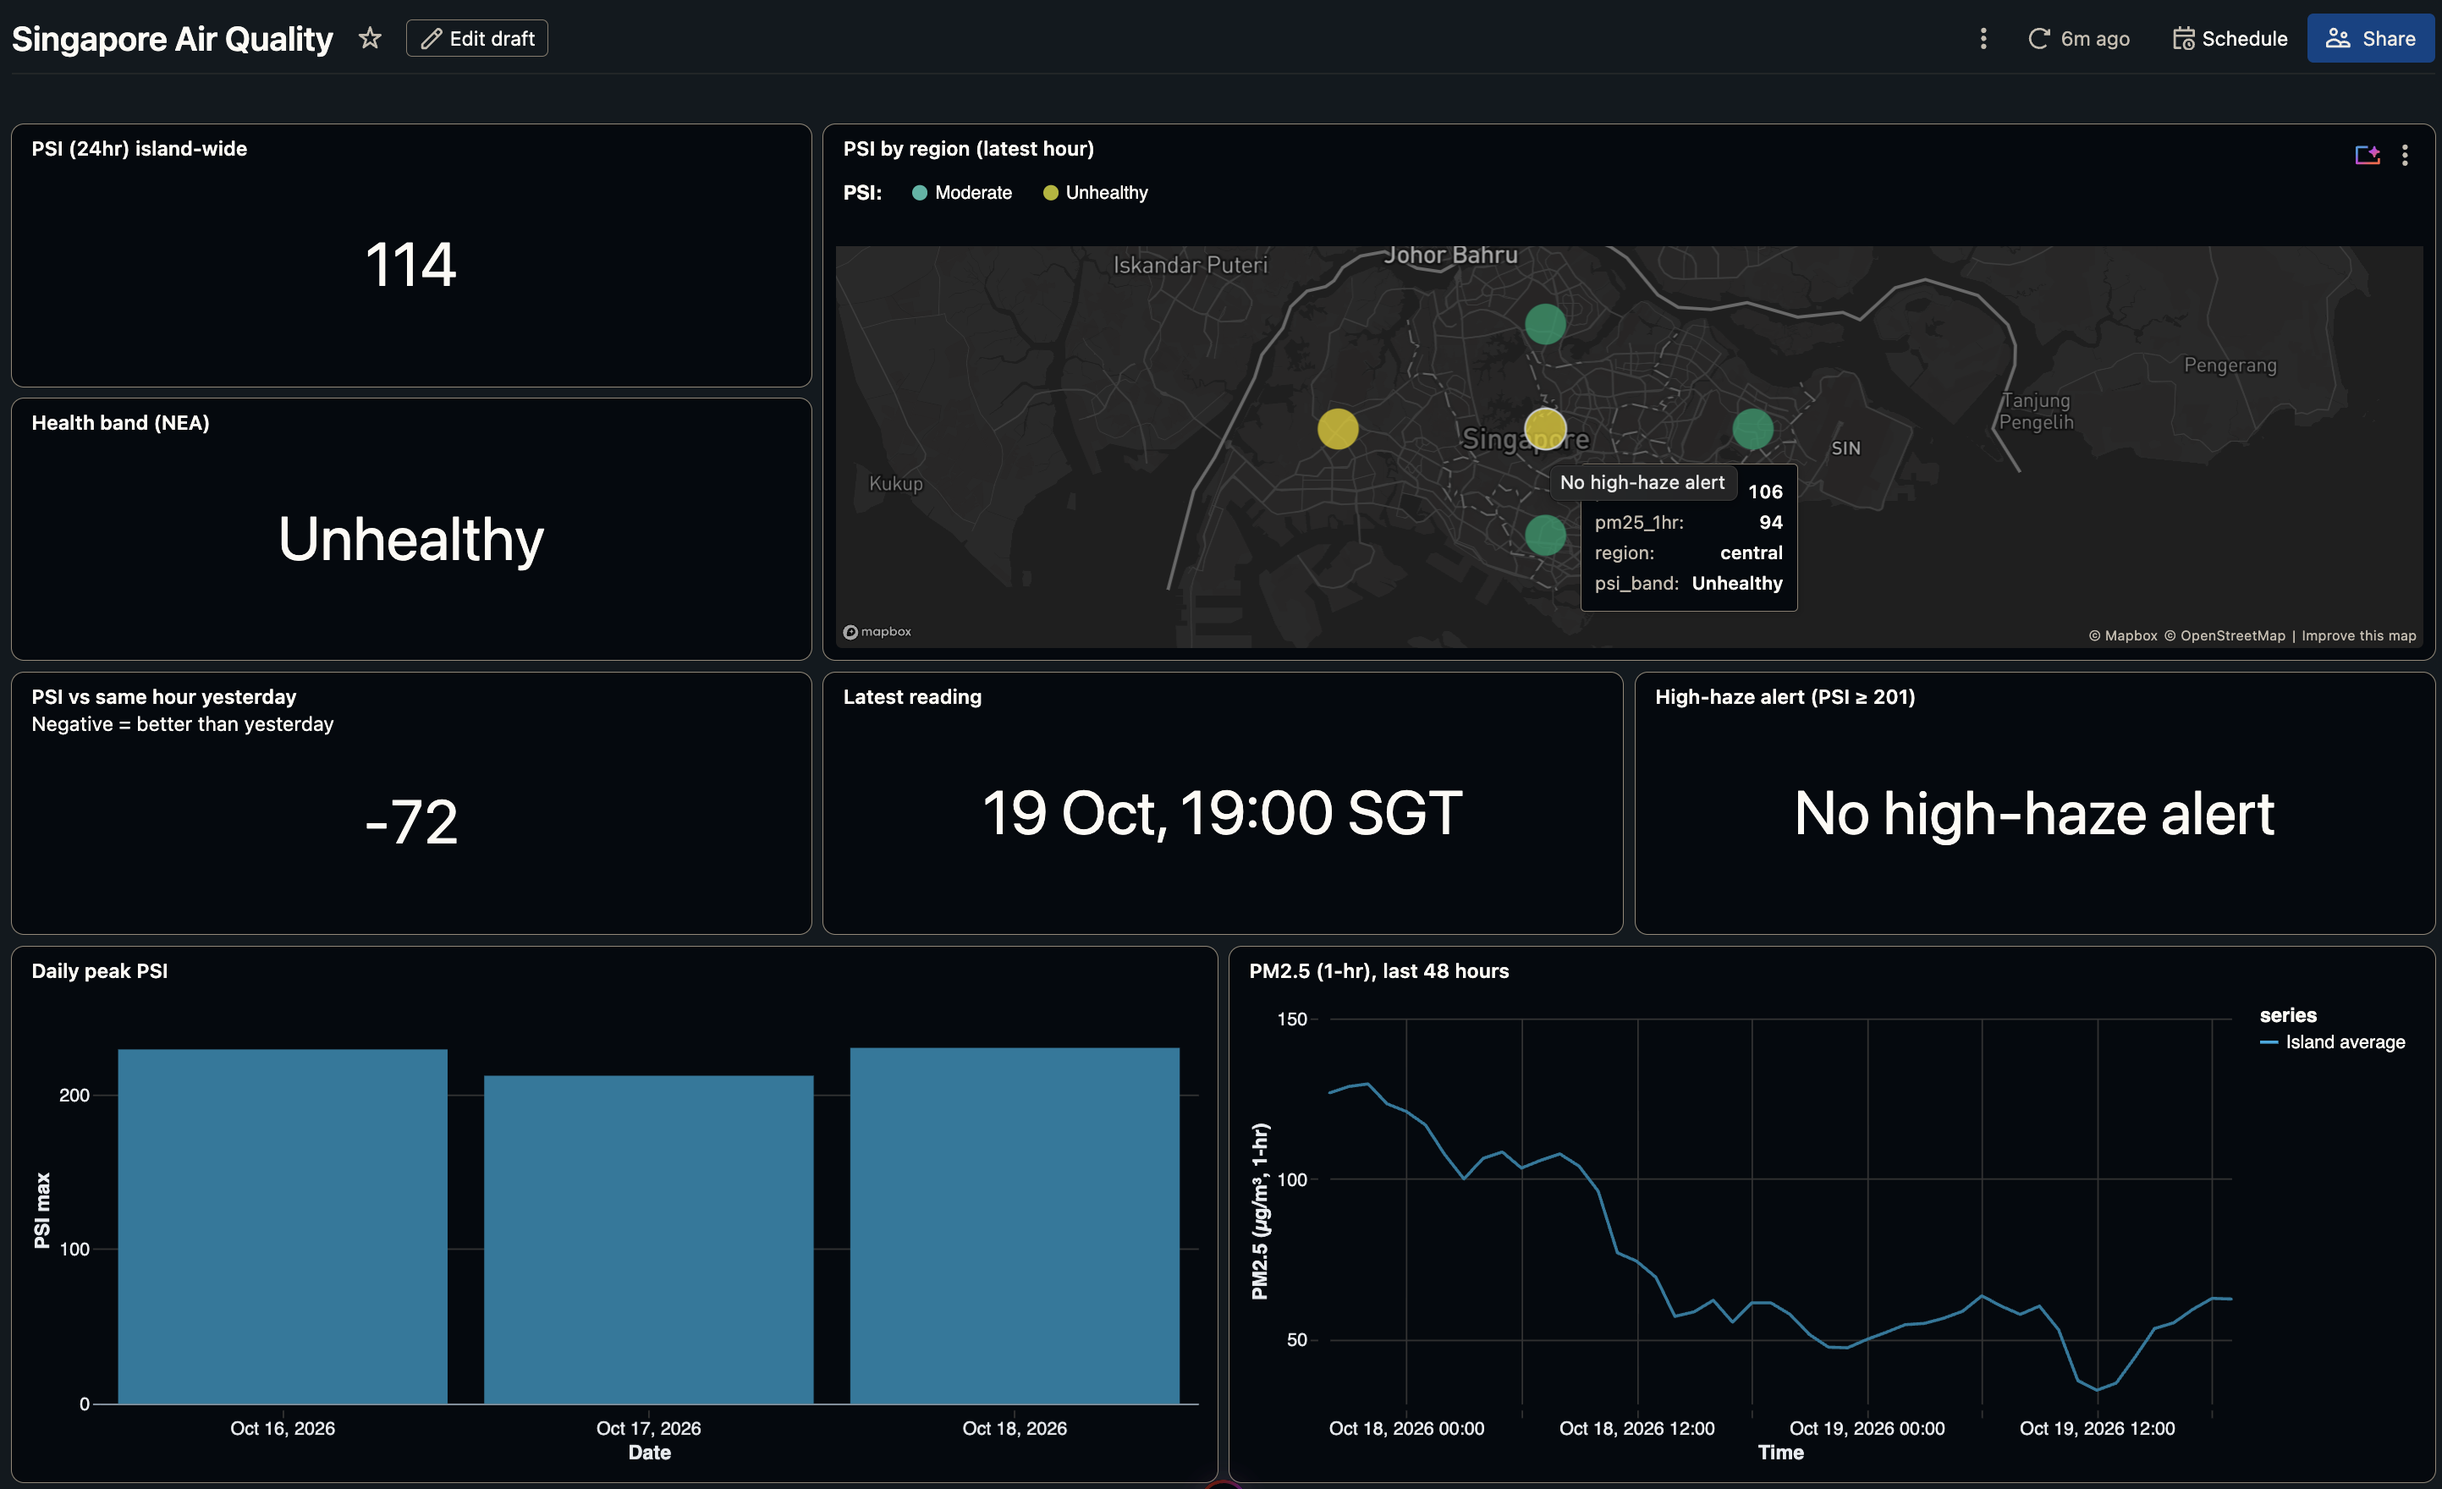
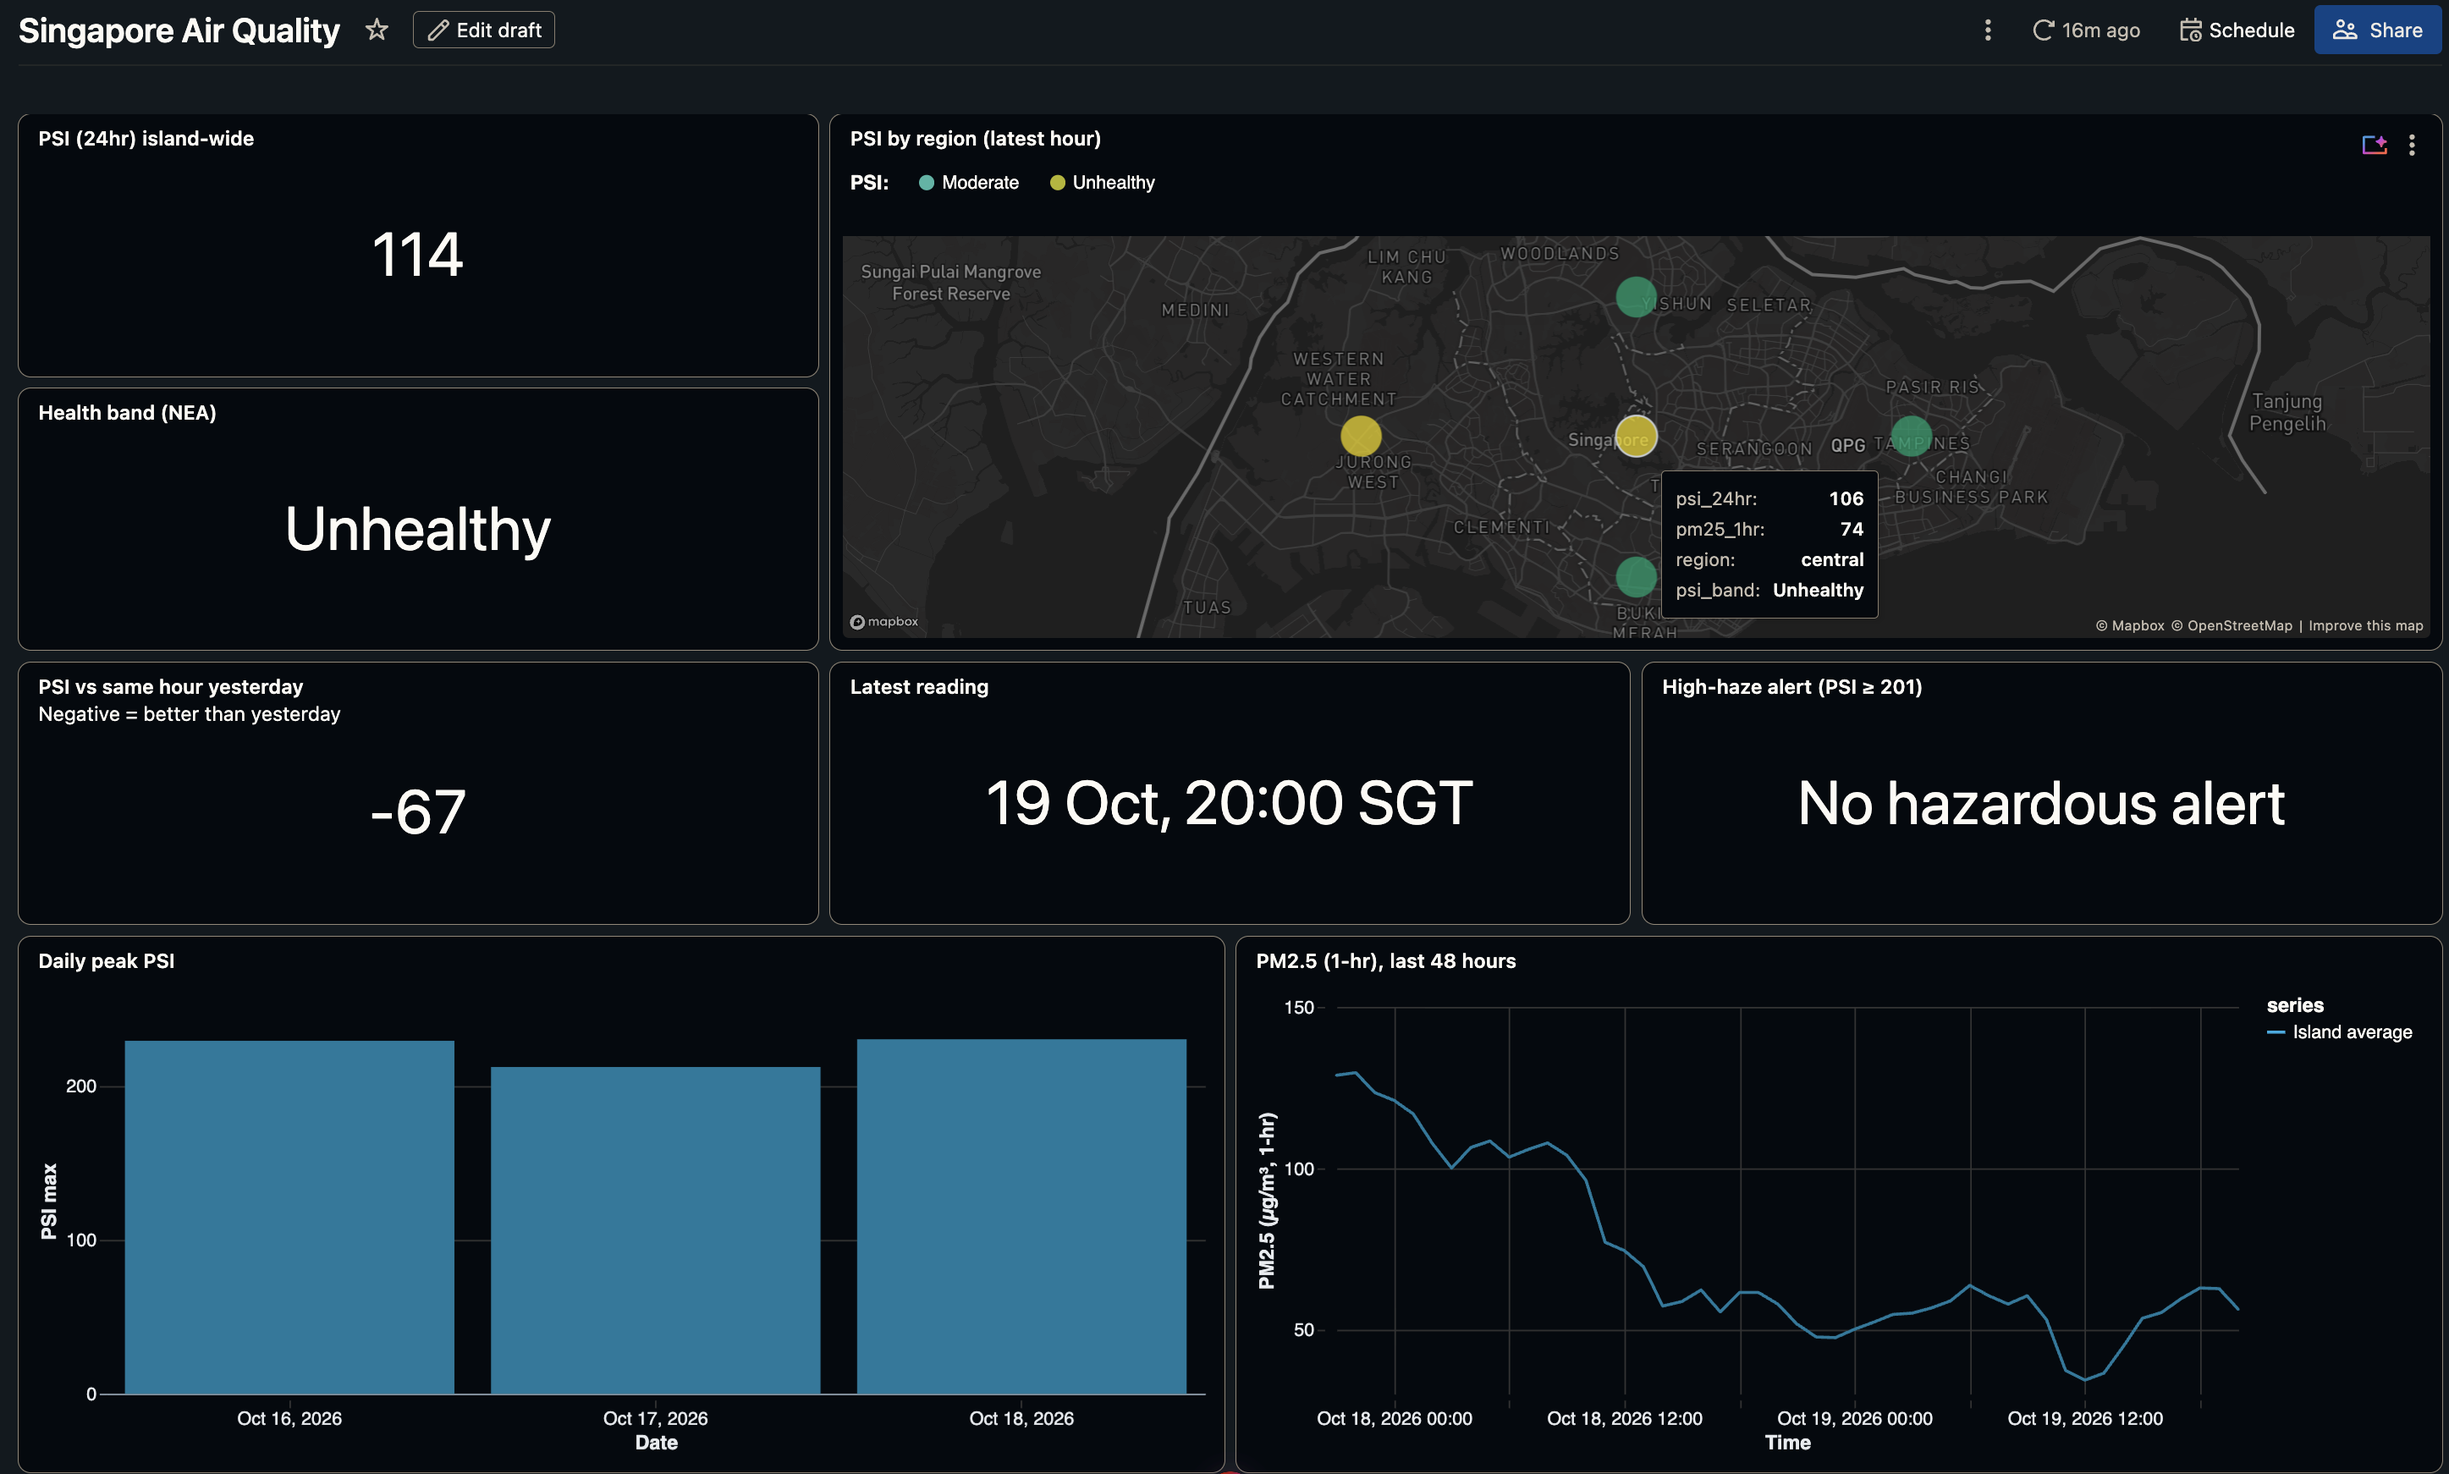
Update screenshot and docs, add design choices write-up

diff --git a/docs/design-choices.md b/docs/design-choices.md
@@ -1,0 +1,48 @@
+# Design choices
+
+Why the project is built the way it is, including a few things that did not go as expected.
+
+## Pipeline
+
+**Bronze keeps everything, including failures.** Every API request becomes one row in `bronze_nea_air_quality`, with the raw JSON untouched and the HTTP status, an `ok` flag and any error message. The client never raises on a failed fetch. A failed run is therefore visible as data, so gaps can be found with a query and not only noticed as a red job.
+
+**The live endpoint only returns the latest reading.** A missed hourly run leaves a hole until that date is backfilled with the `backfill_date` parameter (`?date=YYYY-MM-DD` returns a whole SGT day). `sql/gap_check.sql` looks for missing hours in `silver_psi` and should return no rows. It does not cover `silver_pm25` yet.
+
+**Silver is incremental, gold is rebuilt.** Silver merges on (`reading_ts`, `region`), so re-running or backfilling never duplicates rows. Gold is rebuilt with `CREATE OR REPLACE` on every run, which means a backfilled gap flows through to the dashboard on the next run with no special handling. At this data size a full rebuild is cheap and removes a whole class of "is gold up to date?" bugs.
+
+**Task dependencies.** The job runs `ingest` -> `silver` -> `gold`. Silver uses `run_if: ALL_DONE`, so it still runs if ingest fails and picks up whatever bronze already holds. Gold runs only if silver succeeds. Only one run can be active at a time (`max_concurrent_runs: 1`) and a run is cut off after 600 seconds. Normal runs take about a minute or two.
+
+**Time zones.** Source timestamps carry a `+08:00` offset. Silver stores the reading as a UTC instant plus separate SGT date and hour columns, and PSI and PM2.5 are joined on reading timestamp, never on fetch time, because the two endpoints can have different latest timestamps at the same moment. The dashboard datasets use the SGT columns, so charts do not shift with the viewer's or the warehouse's time zone.
+
+**Health bands are data, not code.** Band names and bounds live in `ref_health_bands` and are rebuilt each gold run. PSI bands were checked against NEA's published scale.
+
+## The high-haze flag is PSI-based
+
+`is_high_haze` is true when the island PSI is in the "Very unhealthy" band or worse. The band is looked up from `ref_health_bands`, not hardcoded as 201. The flag uses PSI because NEA's health advisories apply to the 24-hour PSI. The PM2.5 1-hour bands are not tied to those advisories, so flagging on PM2.5 would imply an official alert that does not exist.
+
+On the dashboard, the alert counter shows "VERY UNHEALTHY OR WORSE" when the flag is on. The column and flag keep the technical name `is_high_haze`.
+
+## Dashboard on Free Edition
+
+**Built in the UI, then exported.** The AI/BI dashboard was built by hand and published, then exported into the bundle with `databricks bundle generate dashboard`. Free Edition has no way to create extra SQL warehouses, so it uses the serverless starter warehouse. `bundle deploy` does create a dashboard on Free Edition, which was an open question until it was tried.
+
+**Things that surprised me:**
+
+* **Two dashboards, one name.** `bundle deploy` created a second dashboard instead of attaching to the hand-built one (I did not use `--bind`). The deployed copy now has the display name `[${bundle.target}] Singapore Air Quality` so the two are easy to tell apart. Re-exporting overwrites that line in the YAML, so after every export I have to restore the prefix.
+* **The refresh schedule lives only on the hand-published copy.** The hourly refresh (at 30 minutes past) was set from the published view. It is not part of the bundle, so a freshly deployed copy has no schedule of its own.
+* **The warehouse ID is hardcoded** in `resources/singapore_air_quality.dashboard.yml`. Anyone cloning the repo has to replace it with their own. Turning it into a bundle variable is a possible cleanup.
+* **Edits are not live until published.** Changes to the draft only go live after clicking Publish again, and the repo copy only changes after a re-export.
+* **Counters can mislead.** A numeric counter defaults to SUM, which once inflated PSI to 1079 because a dataset still held an old test query. I now check each dataset's SQL and row count in the Data tab.
+
+**Map colours follow NEA's scale.** NEA's PSI gauge shows Good and Moderate as one green band, then yellow for Unhealthy, orange for Very Unhealthy and red for Hazardous. The map was recoloured to match. The panel only lists bands present in the data, so Good, Very unhealthy and Hazardous get a colour only once they appear.
+
+## Secrets and public-repo hygiene
+
+The alert address for failure emails is a bundle variable (`alert_email`) supplied through the `BUNDLE_VAR_alert_email` environment variable, so it is never in a file in the repo. Before making the repo public I checked tracked files for email addresses and junk files, and rewrote the commit history so that commits carry GitHub's no-reply address.
+
+## Known limitations and open questions
+
+* One scheduled run (12:20 SGT on 18 Oct) hung in the bronze Delta write and the cause was not found. If it recurs, the plan is to check `DESCRIBE HISTORY` on the bronze table, and to raise the job timeout from 600 to 900 seconds if a slow but healthy run gets cut off.
+* The pagination token's field name in the API response is still unconfirmed, because no backfill has needed a second page. The client accepts two spellings and the tests cover both.
+* Public dashboard sharing on Free Edition has not been checked.
+* The ingest client opens a new HTTP session for every request. Sharing one session would be a small improvement.

diff --git a/README.md b/README.md
@@ -68,7 +68,7 @@ All tables live in `workspace.hazer`.
 
 ![Singapore Air Quality dashboard, published view](docs/dashboard-overview.png)
 
-"Singapore Air Quality" is an AI/BI dashboard with one page, "Overview": counters (PSI, health band, latest reading, change versus the same hour yesterday, high-haze alert), a map of the five regions coloured by PSI band, a PM2.5 trend for the last 48 hours, and a daily peak PSI chart for the last 7 complete days. Its datasets use SGT date and hour columns, so the charts do not drift with time zones.
+"Singapore Air Quality" is an AI/BI dashboard with one page, "Overview": counters (PSI, health band, latest reading, change versus the same hour yesterday, very unhealthy alert), a map of the five regions coloured by PSI band, a PM2.5 trend for the last 48 hours, and a daily peak PSI chart for the last 7 complete days. Its datasets use SGT date and hour columns, so the charts do not drift with time zones.
 
 The dashboard is exported into the bundle (`src/singapore_air_quality.lvdash.json` and `resources/singapore_air_quality.dashboard.yml`), so `bundle deploy` creates a copy named `[dev] Singapore Air Quality`. Two things to know:
 
